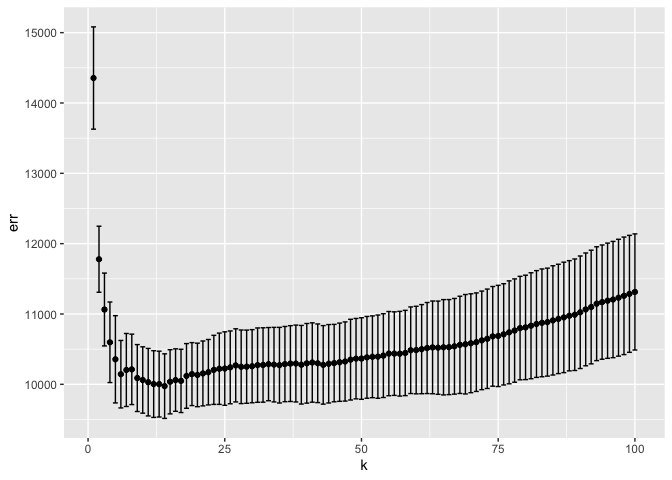
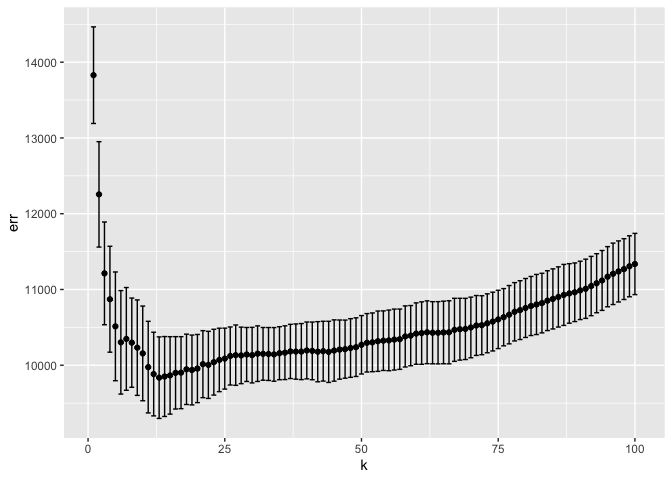
Add files via upload

diff --git a/Assignment-1.md b/Assignment-1.md
@@ -75,7 +75,9 @@ ten-week hit, then filter people who have less than 30 songs
 we can get the plot like:
 
 ![](Assignment-1_files/figure-markdown_strict/ten_week_hit_musicians%20list-1.png)
-## question 3 ###a
+## question 3
+
+###a
 
 The 95th percentile of heights for female competitors across all
 Athletics events is 183
@@ -108,9 +110,9 @@ different for male swimmers relative to female swimmers
 
 ###3 run k nearest neighbors RMSEs
 
-    ## [1] 12896.88
+    ## [1] 11094.32
 
-    ## [1] 35346.98
+    ## [1] 28433.28
 
     ##    id trim subTrim condition isOneOwner mileage year  color displacement   fuel
     ## 1 282  350    unsp       CPO          f   21929 2012  Black        3.0 L Diesel
@@ -120,12 +122,12 @@ different for male swimmers relative to female swimmers
     ## 5 289  350    unsp      Used          t   66689 2012  Black        3.0 L Diesel
     ## 6 290  350    unsp       CPO          f   19567 2012  Black        3.0 L Diesel
     ##   state region   soundSystem wheelType wheelSize featureCount price fold_id
-    ## 1    MA    New          unsp      unsp      unsp           82 55994       5
-    ## 2    IL    ENC       Premium     Alloy      unsp           72 60900       5
+    ## 1    MA    New          unsp      unsp      unsp           82 55994       2
+    ## 2    IL    ENC       Premium     Alloy      unsp           72 60900       1
     ## 3    VA    SoA          unsp      unsp      unsp            5 54995       3
-    ## 4    NH    New Harman Kardon      unsp      unsp           83 59988       3
-    ## 5    NJ    Mid Harman Kardon     Alloy      unsp           79 37995       1
-    ## 6    LA    WSC       Premium     Alloy      unsp           76 59977       2
+    ## 4    NH    New Harman Kardon      unsp      unsp           83 59988       5
+    ## 5    NJ    Mid Harman Kardon     Alloy      unsp           79 37995       3
+    ## 6    LA    WSC       Premium     Alloy      unsp           76 59977       5
 
     ##     id   trim subTrim condition isOneOwner mileage year  color displacement
     ## 1 1060 65 AMG    unsp       New          f     106 2015  Black        6.0 L
@@ -142,30 +144,30 @@ different for male swimmers relative to female swimmers
     ## 5 Gasoline    OH    ENC        unsp      unsp      unsp           92 102500
     ## 6 Gasoline    CA    Pac        unsp      unsp      unsp            1 230860
     ##   fold_id
-    ## 1       4
-    ## 2       2
-    ## 3       5
-    ## 4       4
-    ## 5       5
-    ## 6       5
+    ## 1       1
+    ## 2       1
+    ## 3       2
+    ## 4       5
+    ## 5       3
+    ## 6       1
 
     ## Warning: executing %dopar% sequentially: no parallel backend registered
 
     ##          k      err  std_err
-    ## result.1 1 14354.94 726.9727
-    ## result.2 2 11778.65 469.4156
-    ## result.3 3 11063.78 517.8346
-    ## result.4 4 10597.76 572.4741
-    ## result.5 5 10355.93 620.3665
-    ## result.6 6 10144.08 479.6142
+    ## result.1 1 13828.47 637.4542
+    ## result.2 2 12255.26 695.4219
+    ## result.3 3 11212.70 678.1001
+    ## result.4 4 10871.14 698.8627
+    ## result.5 5 10513.48 717.5712
+    ## result.6 6 10302.57 683.0619
 
     ##          k      err  std_err
-    ## result.1 1 28568.62 1647.634
-    ## result.2 2 25038.69 1461.847
-    ## result.3 3 23122.48 1085.941
-    ## result.4 4 21778.12 1272.022
-    ## result.5 5 22275.87 1212.693
-    ## result.6 6 21503.31 1406.399
+    ## result.1 1 28571.54 2063.611
+    ## result.2 2 22984.74 1999.270
+    ## result.3 3 22982.31 1797.140
+    ## result.4 4 22424.96 1873.033
+    ## result.5 5 21831.22 2071.621
+    ## result.6 6 21469.71 2048.392
 
 ###4 the relationship for RMSE and k，can find optimal k（line or
 point）
@@ -175,11 +177,11 @@ The optimal k for 350 is 15, and the optimal k for 65 AMG is 22
 ###5 model for each k (for each trim) ##6 Which trim have bigger optimal
 k? why?
 
-    ## [1] 8944.75
+    ## [1] 12502.48
 
 ![](Assignment-1_files/figure-markdown_strict/unnamed-chunk-10-1.png)
 
-    ## [1] 34309.59
+    ## [1] 40317.32
 
 ![](Assignment-1_files/figure-markdown_strict/unnamed-chunk-10-2.png)
 
